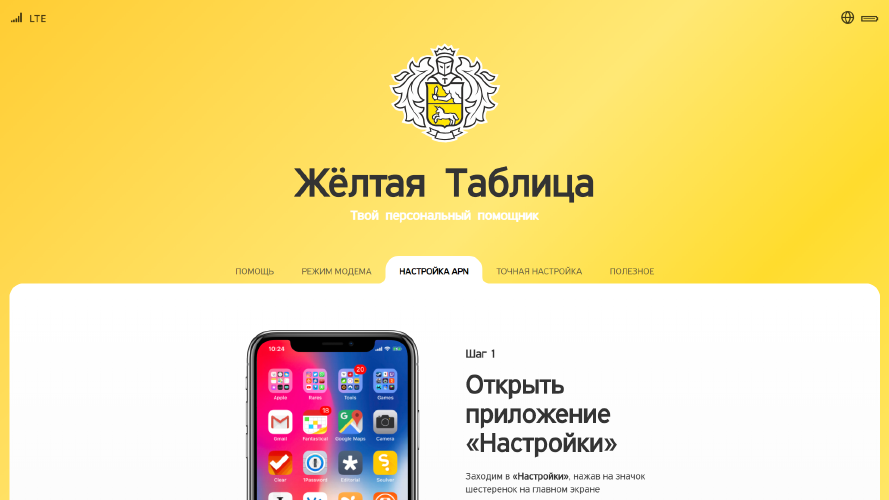
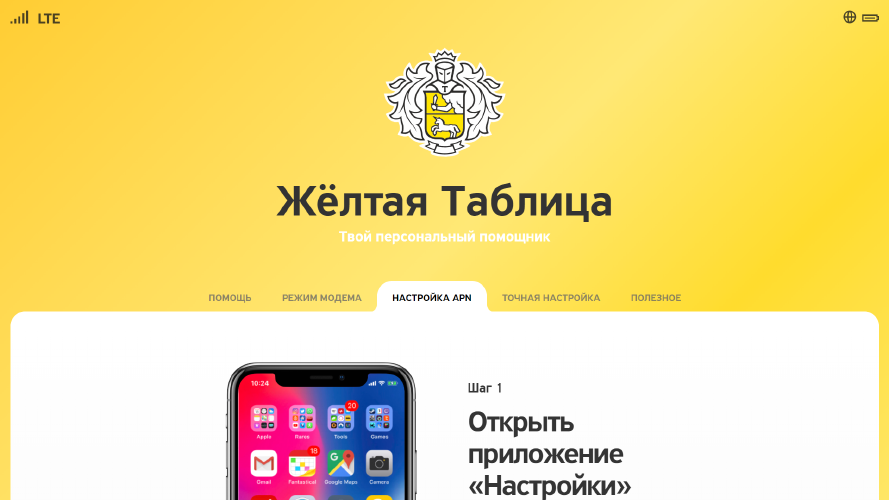
Add files via upload

diff --git a/index.html b/index.html
@@ -54,7 +54,7 @@
                         <div class="project_card-title-wrapper">
                             <div class="right_aligned">
                                 <h2>Meteo Equestria</h2>
-                                <h3>Equestrian forecast app</h3>
+                                <h3>Погодное приложение с прогнозами Поможет Вам не забыть зонтик в поездке по Эквестрии</h3>
                                 <a href="http://stavrapid.ru/pages/MeteoLanding" class="button--open">Open</a>
                             </div>
                         </div>
@@ -65,8 +65,8 @@
                         </div>
                         <div class="project_card-title-wrapper">
                             <div class="left_aligned">
-                                <h2>Yellow Table</h2>
-                                <h3>Your personal helper</h3>
+                                <h2>Жёлтая Таблица</h2>
+                                <h3>Твой персональный помощник</h3>
                                 <a href="http://stavrapid.ru/pages/YellowTable" class="button--open">Open</a>
                             </div>
                         </div>
@@ -77,8 +77,8 @@
                         </div>
                         <div class="project_card-title-wrapper">
                             <div class="right_aligned">
-                                <h2>Tinkoff Mobile</h2>
-                                <h3>Personal control panel</h3>
+                                <h2>ЛК Tinkoff Mobile</h2>
+                                <h3>Прототип личного кабинета для абонентов Тинькофф Мобайл</h3>
                                 <a href="http://stavrapid.ru/pages/TinkoffMobile" class="button--open">Open</a>
                             </div>
                         </div>
@@ -88,33 +88,45 @@
 
                         </div>
                         <div class="project_card-title-wrapper">
-                            <div class="right_aligned">
+                            <div class="center_aligned">
                                 <h2>VK Links</h2>
-                                <h3>Tips & tricks for VK</h3>
+                                <h3>Интересные, полезные (и не очень) ссылки для работы с ВК</h3>
                                 <a href="http://stavrapid.ru/vk_links" class="button--open">Open</a>
                             </div>
                         </div>
                     </div>
                     <div class="project_card --small">
-                        <div class="project_card-title" style="background-image: url('./projects/project.png');">
-
-                        </div>
-                        <div class="project_card-title-wrapper">
-                            <div class="right_aligned">
-                                <h2>Project</h2>
-                                <h3>Project description</h3>
-                                <a href="#" class="button--open disabled">Open</a>
-                            </div>
-                        </div>
-                    </div>
-                    <div class="project_card --medium">
-                        <div class="project_card-title" style="background-image: url('./projects/project.png');">
+                        <div class="project_card-title" style="background-image: url('./projects/project6.png');">
 
                         </div>
                         <div class="project_card-title-wrapper">
                             <div class="center_aligned">
-                                <h2>Project</h2>
-                                <h3>Project description</h3>
+                                <h2>Старый дизайн</h2>
+                                <h3>Самый первый, стремно и вычурно оформленный сайт</h3>
+                                <a href="http://stavrapid.ru/index-2" class="button--open">Open</a>
+                            </div>
+                        </div>
+                    </div>
+                    <div class="project_card --medium">
+                        <div class="project_card-title" style="background-image: url('./projects/project5.png');">
+
+                        </div>
+                        <div class="project_card-title-wrapper">
+                            <div class="center_aligned">
+                                <h2>VK MOD 2017</h2>
+                                <h3>Пользовательский стиль для расширения Stylish,<br>реализующий разносторонние диалоги для ВК</h3>
+                                <a href="https://userstyles.org/styles/132742/vk-mod-2017" class="button--open">Open</a>
+                            </div>
+                        </div>
+                    </div>
+                    <div class="project_card --large">
+                        <div class="project_card-title" style="background-image: url('./projects/project7.png');">
+
+                        </div>
+                        <div class="project_card-title-wrapper">
+                            <div class="left_aligned">
+                                <h2>Ставрополь глазами горожан</h2>
+                                <h3>Сервис для жителей Ставрополя</h3>
                                 <a href="#" class="button--open disabled">Open</a>
                             </div>
                         </div>

diff --git a/style.css b/style.css
@@ -131,6 +131,8 @@ a {
     text-align: center;
     text-transform: uppercase;
     padding: 3rem 0 0;
+    /* color: transparent;
+    background: url("./img/stvpd.svg") no-repeat bottom / 12em; */
 }
 .main_logo h1 {
     font-family: Intro;
@@ -150,7 +152,7 @@ a {
     letter-spacing: 0.1em;
     display: inline-block;
     position: relative;
-    flex: 1;
+    max-width: 65%;
 }
 .subtitle aside {
     width: auto;
@@ -186,8 +188,9 @@ a {
     border-radius: 1rem;
     overflow: hidden;
     display: inline-block;
-    margin: 0.5rem;
+    margin: 0.75rem 0.5rem;
     text-align: center;
+    border-bottom: 1px solid #222;
 }
 .project_card.--small { width: 25rem; }
 .project_card.--small .project_card-title { height: 14rem; }
@@ -231,9 +234,17 @@ a {
 .project_card-title-wrapper > div {
     padding: 1.5rem 2rem 1rem;
     position: relative;
+    border-top: 1px solid #444;
+    border-radius: 0 0 1rem 1rem;
 }
 .project_card-title-wrapper > div.right_aligned {
     text-align: right;
+}
+.project_card-title-wrapper > div.right_aligned h2,
+.project_card-title-wrapper > div.right_aligned h3 {
+    margin-left: 9rem;
+    overflow: hidden;
+    text-overflow: ellipsis;
 }
 .project_card-title-wrapper > div.right_aligned .button--open {
     left: 2rem;
@@ -241,12 +252,19 @@ a {
 .project_card-title-wrapper > div.left_aligned {
     text-align: left;
 }
+.project_card-title-wrapper > div.left_aligned h2,
+.project_card-title-wrapper > div.left_aligned h3 {
+    margin-right: 9rem;
+    overflow: hidden;
+    text-overflow: ellipsis;
+}
 .project_card-title-wrapper > div.left_aligned .button--open {
     right: 2rem;
 }
 .project_card-title-wrapper > div.center_aligned {
     text-align: center;
 }
+.project_card-title-wrapper > div.center_aligned h3 { display: block; }
 .project_card-title-wrapper > div.center_aligned .button--open {
     position: relative;
     display: inline-block;
@@ -254,10 +272,8 @@ a {
     transform: none;
 }
 .project_card-title-wrapper h2 {
-    display: inline-block;
     margin: 0;
     font-size: 2rem;
-    max-width: 50%;
 }
 .project_card-title-wrapper h3 {
     margin: 0.25em 0 0.5em;
